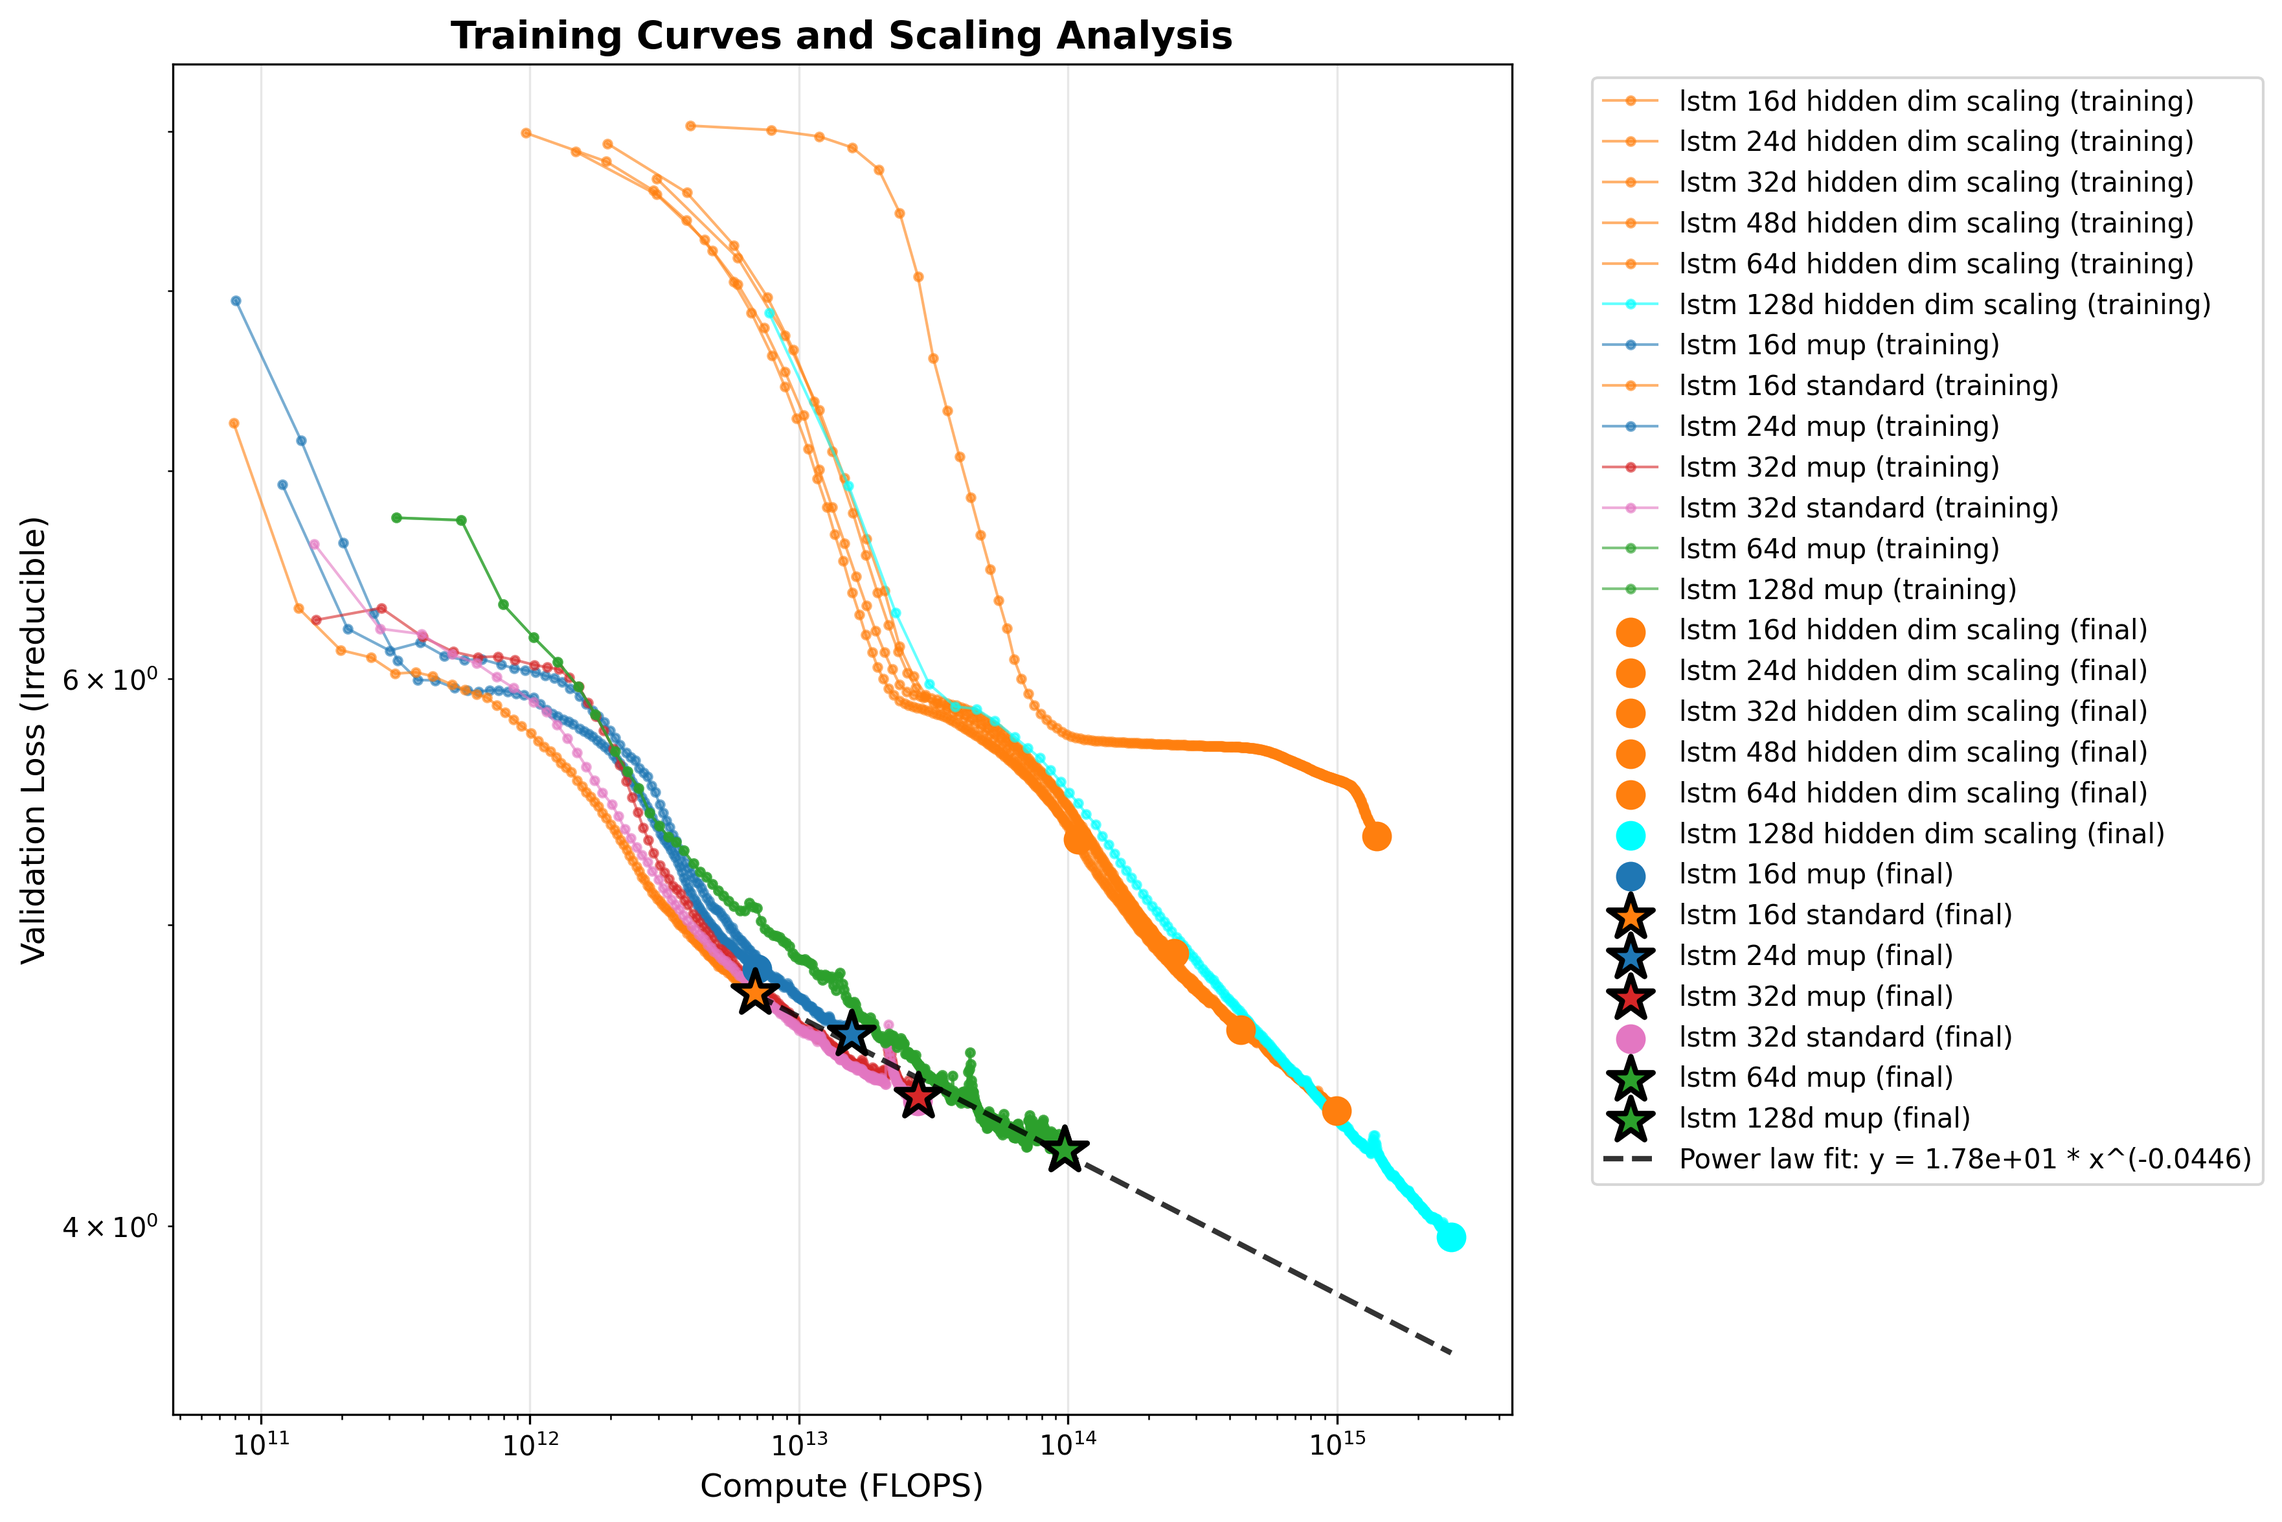
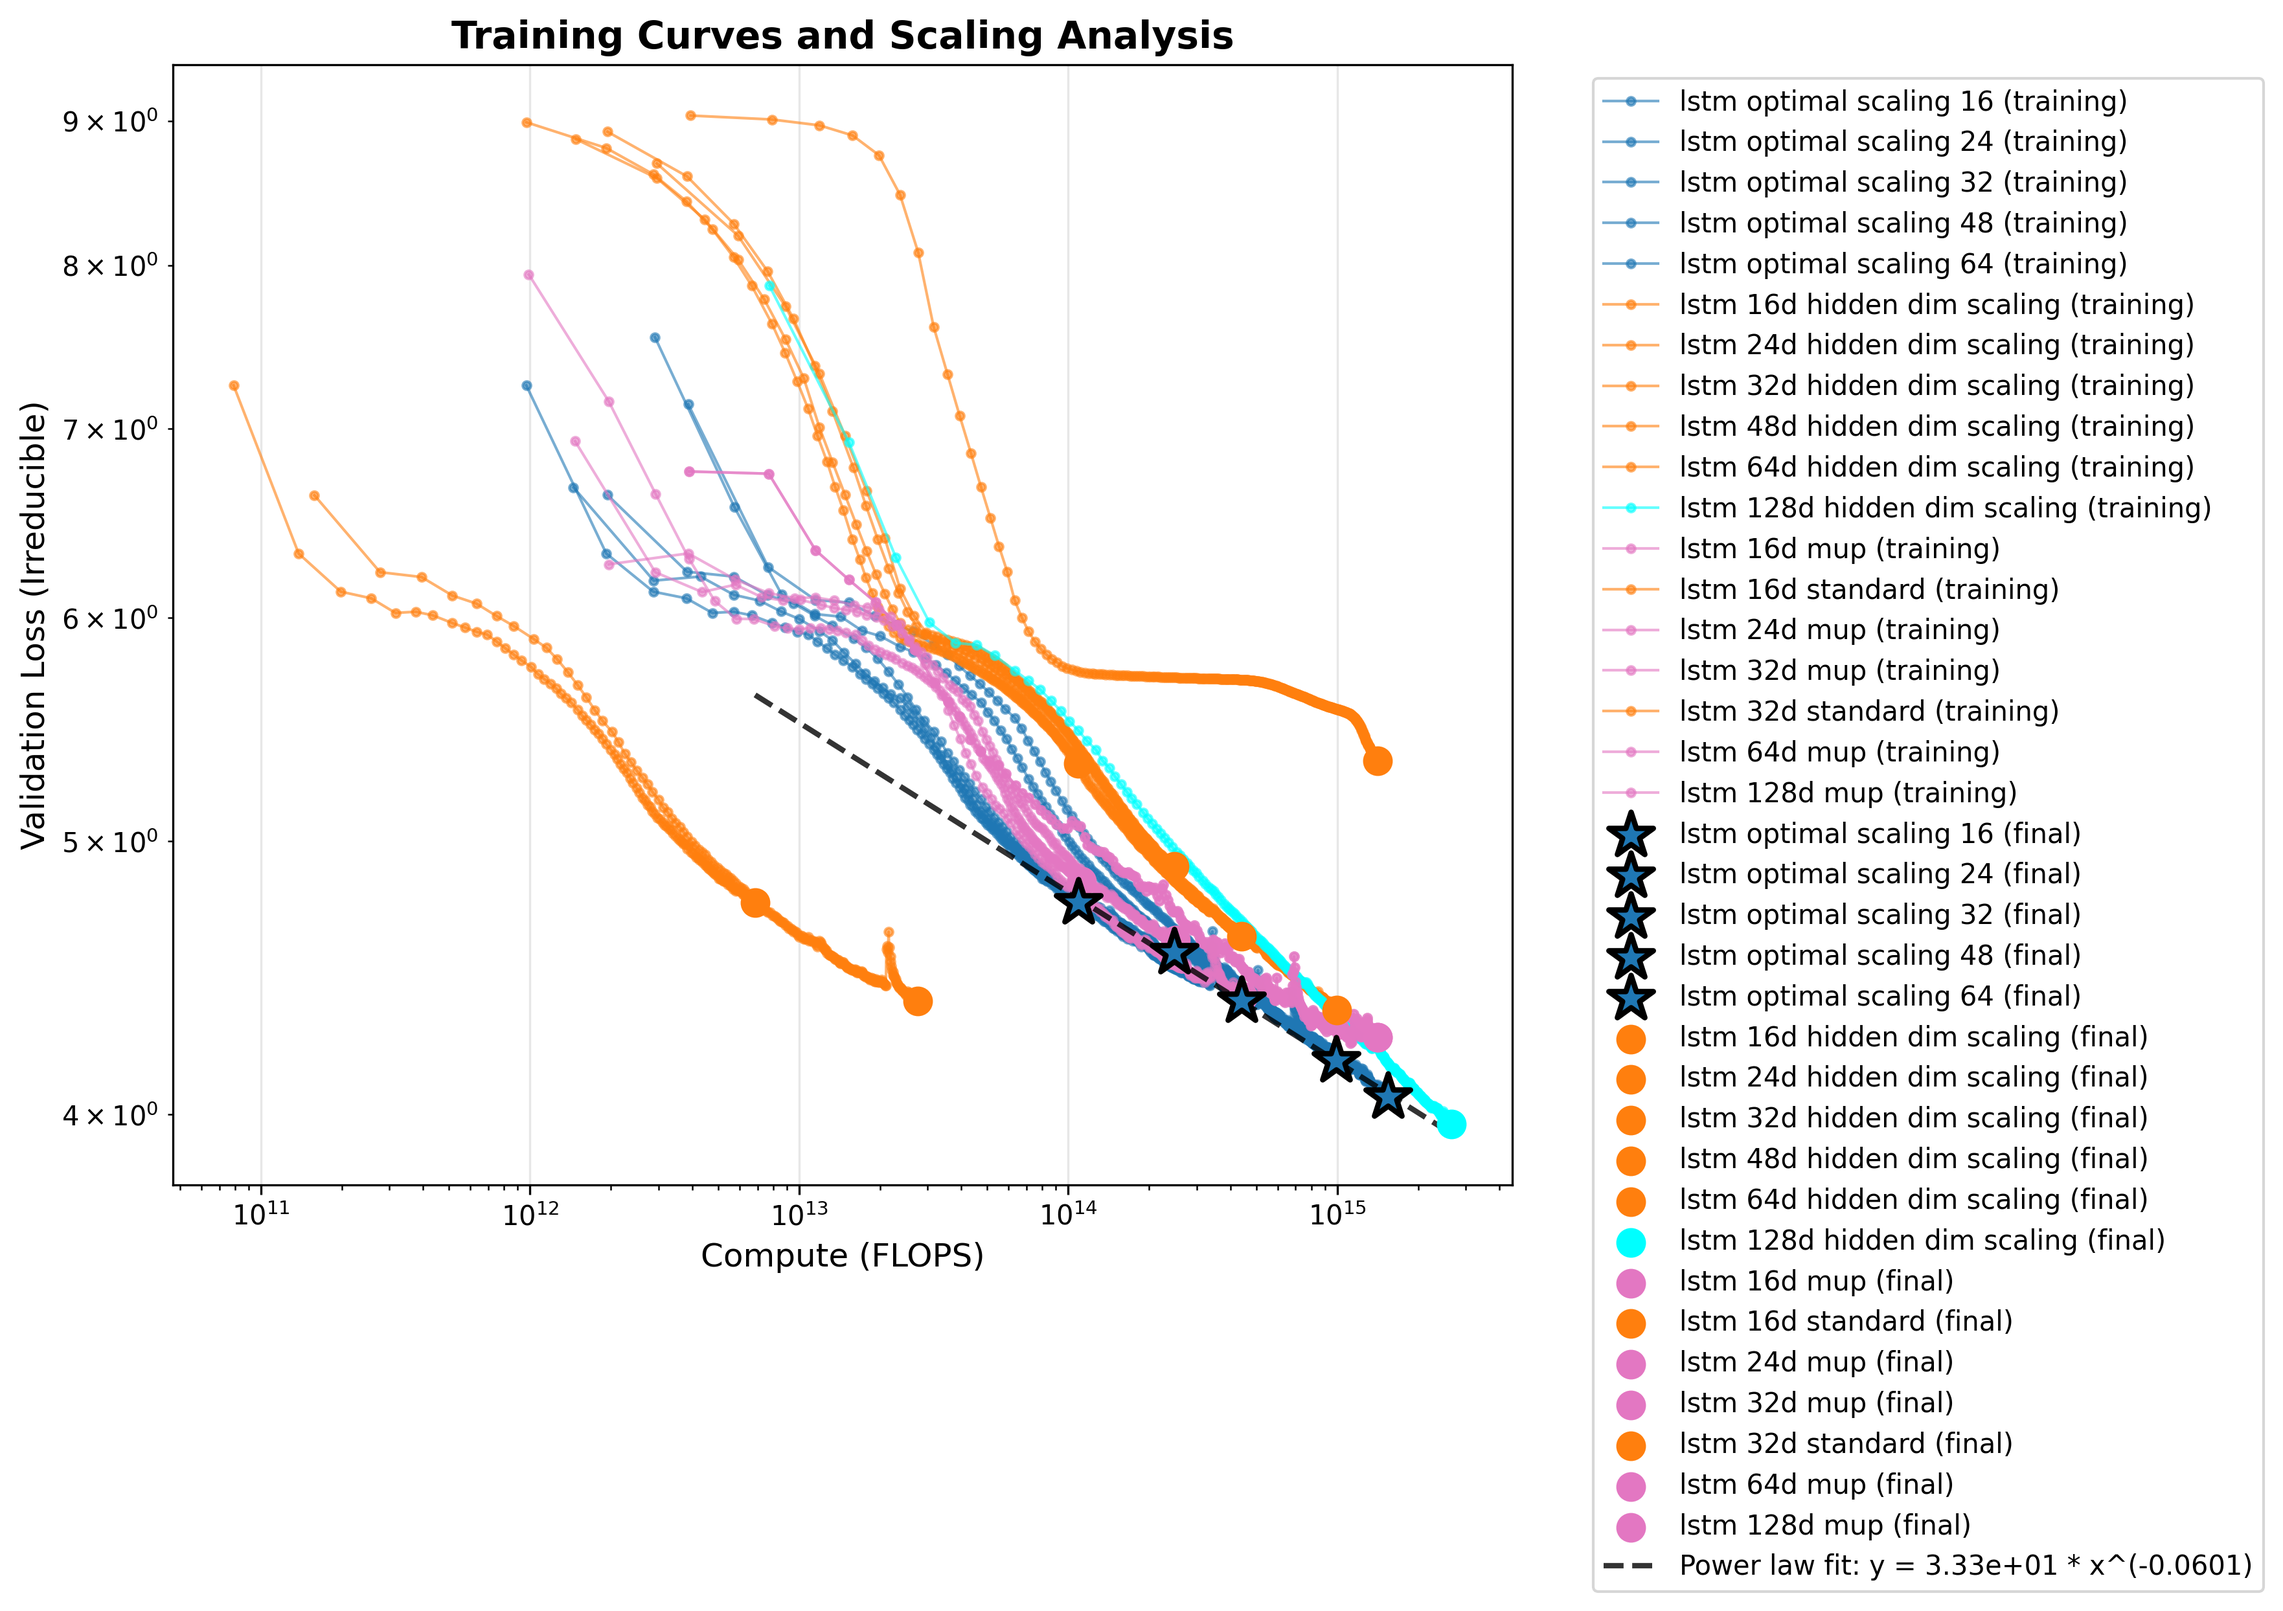
a good working version

diff --git a/experimental_analysis/lstm_scaling.py b/experimental_analysis/lstm_scaling.py
@@ -308,39 +308,74 @@ if __name__ == "__main__":
     # Add experiments - you can modify these paths and names as needed
     experiments_config = [
         {
+            "name": "lstm optimal scaling 16",
+            "csv_path": "../experimental_data_folder/lstm_optimal_scaling/lstm_16d.csv",
+            "color": "tab:blue",
+            "marker": "o",
+            "include_in_frontier": True,  # Include in frontier analysis
+        },
+        {
+            "name": "lstm optimal scaling 24",
+            "csv_path": "../experimental_data_folder/lstm_optimal_scaling/lstm_24d.csv",
+            "color": "tab:blue",
+            "marker": "o",
+            "include_in_frontier": True,  # Include in frontier analysis
+        },
+        {
+            "name": "lstm optimal scaling 32",
+            "csv_path": "../experimental_data_folder/lstm_optimal_scaling/lstm_32d.csv",
+            "color": "tab:blue",
+            "marker": "o",
+            "include_in_frontier": True,  # Include in frontier analysis
+        },
+        {
+            "name": "lstm optimal scaling 48",
+            "csv_path": "../experimental_data_folder/lstm_optimal_scaling/lstm_48d.csv",
+            "color": "tab:blue",
+            "marker": "o",
+            "include_in_frontier": True,  # Include in frontier analysis
+        },
+        {
+            "name": "lstm optimal scaling 64",
+            "csv_path": "../experimental_data_folder/lstm_optimal_scaling/lstm_64d.csv",
+            "color": "tab:blue",
+            "marker": "o",
+            "include_in_frontier": True,  # Include in frontier analysis
+        },
+        {
             "name": "lstm 16d hidden dim scaling",
             "csv_path": "../experimental_data_folder/LSTM_Hidden_Dim_Scaling/LSTM_16d_123.csv",
             "color": "tab:orange",
             "marker": "o",
-            "include_in_frontier": True,  # Include in frontier analysis
+            "include_in_frontier": False,  # Include in frontier analysis
         },
         {
             "name": "lstm 24d hidden dim scaling",
             "csv_path": "../experimental_data_folder/LSTM_Hidden_Dim_Scaling/LSTM_24d_123.csv",
             "color": "tab:orange",
             "marker": "o",
-            "include_in_frontier": True,  # Include in frontier analysis
+            "include_in_frontier": False,  # Include in frontier analysis
         },
         {
             "name": "lstm 32d hidden dim scaling",
             "csv_path": "../experimental_data_folder/LSTM_Hidden_Dim_Scaling/LSTM_32d_123.csv",
             "color": "tab:orange",
             "marker": "o",
-            "include_in_frontier": True,  # Include in frontier analysis
+            "include_in_frontier": False,  # Include in frontier analysis
         },
         {
             "name": "lstm 48d hidden dim scaling",
             "csv_path": "../experimental_data_folder/LSTM_Hidden_Dim_Scaling/LSTM_48d_123.csv",
             "color": "tab:orange",
             "marker": "o",
-            "include_in_frontier": True,  # Include in frontier analysis
+            "include_in_frontier": False,  # Include in frontier analysis
         },
         {
             "name": "lstm 64d hidden dim scaling",
             "csv_path": "../experimental_data_folder/LSTM_Hidden_Dim_Scaling/LSTM_64d_123.csv",
             "color": "tab:orange",
             "marker": "o",
-            "include_in_frontier": True,  # Include in frontier analysis
+            "include_in_frontier": False,  # Include in frontier analysis
         },
         {
             "name": "lstm 128d hidden dim scaling",
@@ -352,7 +387,7 @@ if __name__ == "__main__":
         {
             "name": "lstm 16d mup",
             "csv_path": "../experimental_data_folder/muP_scaling_experiments/lstm_16d_mup.csv",
-            "color": "tab:blue",
+            "color": "tab:pink",
             "marker": "o",
             "include_in_frontier": True,  # Include in frontier analysis
         },
@@ -361,40 +396,40 @@ if __name__ == "__main__":
             "csv_path": "../experimental_data_folder/muP_scaling_experiments/lstm_16d_standard.csv",
             "color": "tab:orange",
             "marker": "o",
-            "include_in_frontier": True,  # Include in frontier analysis
+            "include_in_frontier": False,  # Include in frontier analysis
         },
         {
             "name": "lstm 24d mup",
             "csv_path": "../experimental_data_folder/muP_scaling_experiments/lstm_24d_mup.csv",
-            "color": "tab:blue",
+            "color": "tab:pink",
             "marker": "o",
             "include_in_frontier": True,  # Include in frontier analysis
         },
         {
             "name": "lstm 32d mup",
             "csv_path": "../experimental_data_folder/muP_scaling_experiments/lstm_32d_mup.csv",
-            "color": "tab:red",
+            "color": "tab:pink",
             "marker": "o",
             "include_in_frontier": True,  # Include in frontier analysis
         },
         {
             "name": "lstm 32d standard",
             "csv_path": "../experimental_data_folder/muP_scaling_experiments/lstm_32d_standard.csv",
-            "color": "tab:pink",
+            "color": "tab:orange",
             "marker": "o",
             "include_in_frontier": False,  # Include in frontier analysis
         },
         {
             "name": "lstm 64d mup",
             "csv_path": "../experimental_data_folder/muP_scaling_experiments/lstm_64d_mup.csv",
-            "color": "tab:green",
+            "color": "tab:pink",
             "marker": "o",
             "include_in_frontier": True,  # Include in frontier analysis
         },
         {
             "name": "lstm 128d mup",
             "csv_path": "../experimental_data_folder/muP_scaling_experiments/lstm_64d_mup.csv",
-            "color": "tab:green",
+            "color": "tab:pink",
             "marker": "o",
             "include_in_frontier": True,  # Include in frontier analysis
         },

diff --git a/LSTM_model/lstm_experiments.py b/LSTM_model/lstm_experiments.py
@@ -444,7 +444,7 @@ LSTM_SGD_SCALING = [
         "name": "lsmt_sgd_scaling",
         "subexperiments": [
             {
-                "label": "LSTM_16d_sgd",
+                "label": "lstm_16d_sgd",
                 "overrides": {
                     "learning_rate": 3 * 1e-3,
                     "hidden_size": 16,
@@ -454,10 +454,21 @@ LSTM_SGD_SCALING = [
                 },
             },
             {
+                "label": "lstm_16d_sgd_mup",
+                "overrides": {
+                    "learning_rate": 3 * 1e-3,
+                    "hidden_size": 16,
+                    "max_characters": 129e6,
+                    "seed": 123,
+                    "optimizer": "sgd",
+                    "use_mup": True,
+                },
+            },
+            {
                 "label": "LSTM_24d_sgd",
                 "overrides": {
                     "learning_rate": 3 * 1e-3,
-                    "max_characters": 193.7e6,
+                    "max_characters": 129e6,
                     "seed": 123,
                     "hidden_size": 24,
                     "optimizer": "sgd",
@@ -467,7 +478,7 @@ LSTM_SGD_SCALING = [
                 "label": "LSTM_32d_sgd",
                 "overrides": {
                     "learning_rate": 3 * 1e-3,
-                    "max_characters": 258.6e6,
+                    "max_characters": 129e6,
                     "seed": 123,
                     "hidden_size": 32,
                     "optimizer": "sgd",
@@ -477,7 +488,7 @@ LSTM_SGD_SCALING = [
                 "label": "LSTM_48d_sgd",
                 "overrides": {
                     "learning_rate": 3 * 1e-3,
-                    "max_characters": 388.8e6,
+                    "max_characters": 129e6,
                     "seed": 123,
                     "hidden_size": 48,
                     "optimizer": "sgd",
@@ -487,10 +498,21 @@ LSTM_SGD_SCALING = [
                 "label": "LSTM_64d_sgd",
                 "overrides": {
                     "learning_rate": 3 * 1e-3,
-                    "max_characters": 519.9e6,
+                    "max_characters": 129e6,
                     "seed": 123,
                     "hidden_size": 64,
                     "optimizer": "sgd",
+                },
+            },
+            {
+                "label": "LSTM_64d_sgd_mup",
+                "overrides": {
+                    "learning_rate": 3 * 1e-3,
+                    "max_characters": 129e6,
+                    "seed": 123,
+                    "hidden_size": 64,
+                    "optimizer": "sgd",
+                    "use_mup": True,
                 },
             },
         ],
@@ -871,21 +893,22 @@ def create_multi_lr_experiments(base_experiments, learning_rates):
 
 # Define standard learning rate sweeps
 # STANDARD_LR_SWEEP = [1e-4, 10 ** (-3.5), 1e-3, 10 ** (-2.5), 1e-2, 10 ** (-1.5), 1e-1]
-# NARROW_LR_SWEEP = [
-#     10 ** (-3),
-#     10 ** (-2.5),
-#     10 ** (-2),
-#     10 ** (-1.5),
-#     1e-1,
-# ]  # Focused sweep around promising values
+NARROW_LR_SWEEP = [
+    10 ** (-3),
+    10 ** (-2.5),
+    10 ** (-2),
+    10 ** (-1.5),
+    1e-1,
+]  # Focused sweep around promising values
 
-
+subset_experiments = subset_experiments(
+    LSTM_SGD_SCALING, {"lstm_16d_sgd_mup", "lstm_16_sgd"}
+)
 # # Active configuration: Learning rate sweep on lstm_32d
-# wanted = {"lstm_16d", "lstm_24d", "lstm_32d", "lstm_48d", "lstm_64d"}
-# selected_experiments = subset_experiments(LSTM_HIDDEN_DIM_EXPERIMENTS, wanted)
-# EXPERIMENTS = create_multi_lr_experiments(selected_experiments, NARROW_LR_SWEEP)
 
-EXPERIMENTS = LSTM_OPTIMAL_SCALING
+EXPERIMENTS = create_multi_lr_experiments(subset_experiments, NARROW_LR_SWEEP)
+
+# EXPERIMENTS = MUP_SCALING_EXPERIMENTS
 # Example usage patterns:
 
 # Example 1: Generate a single learning rate sweep experiment
